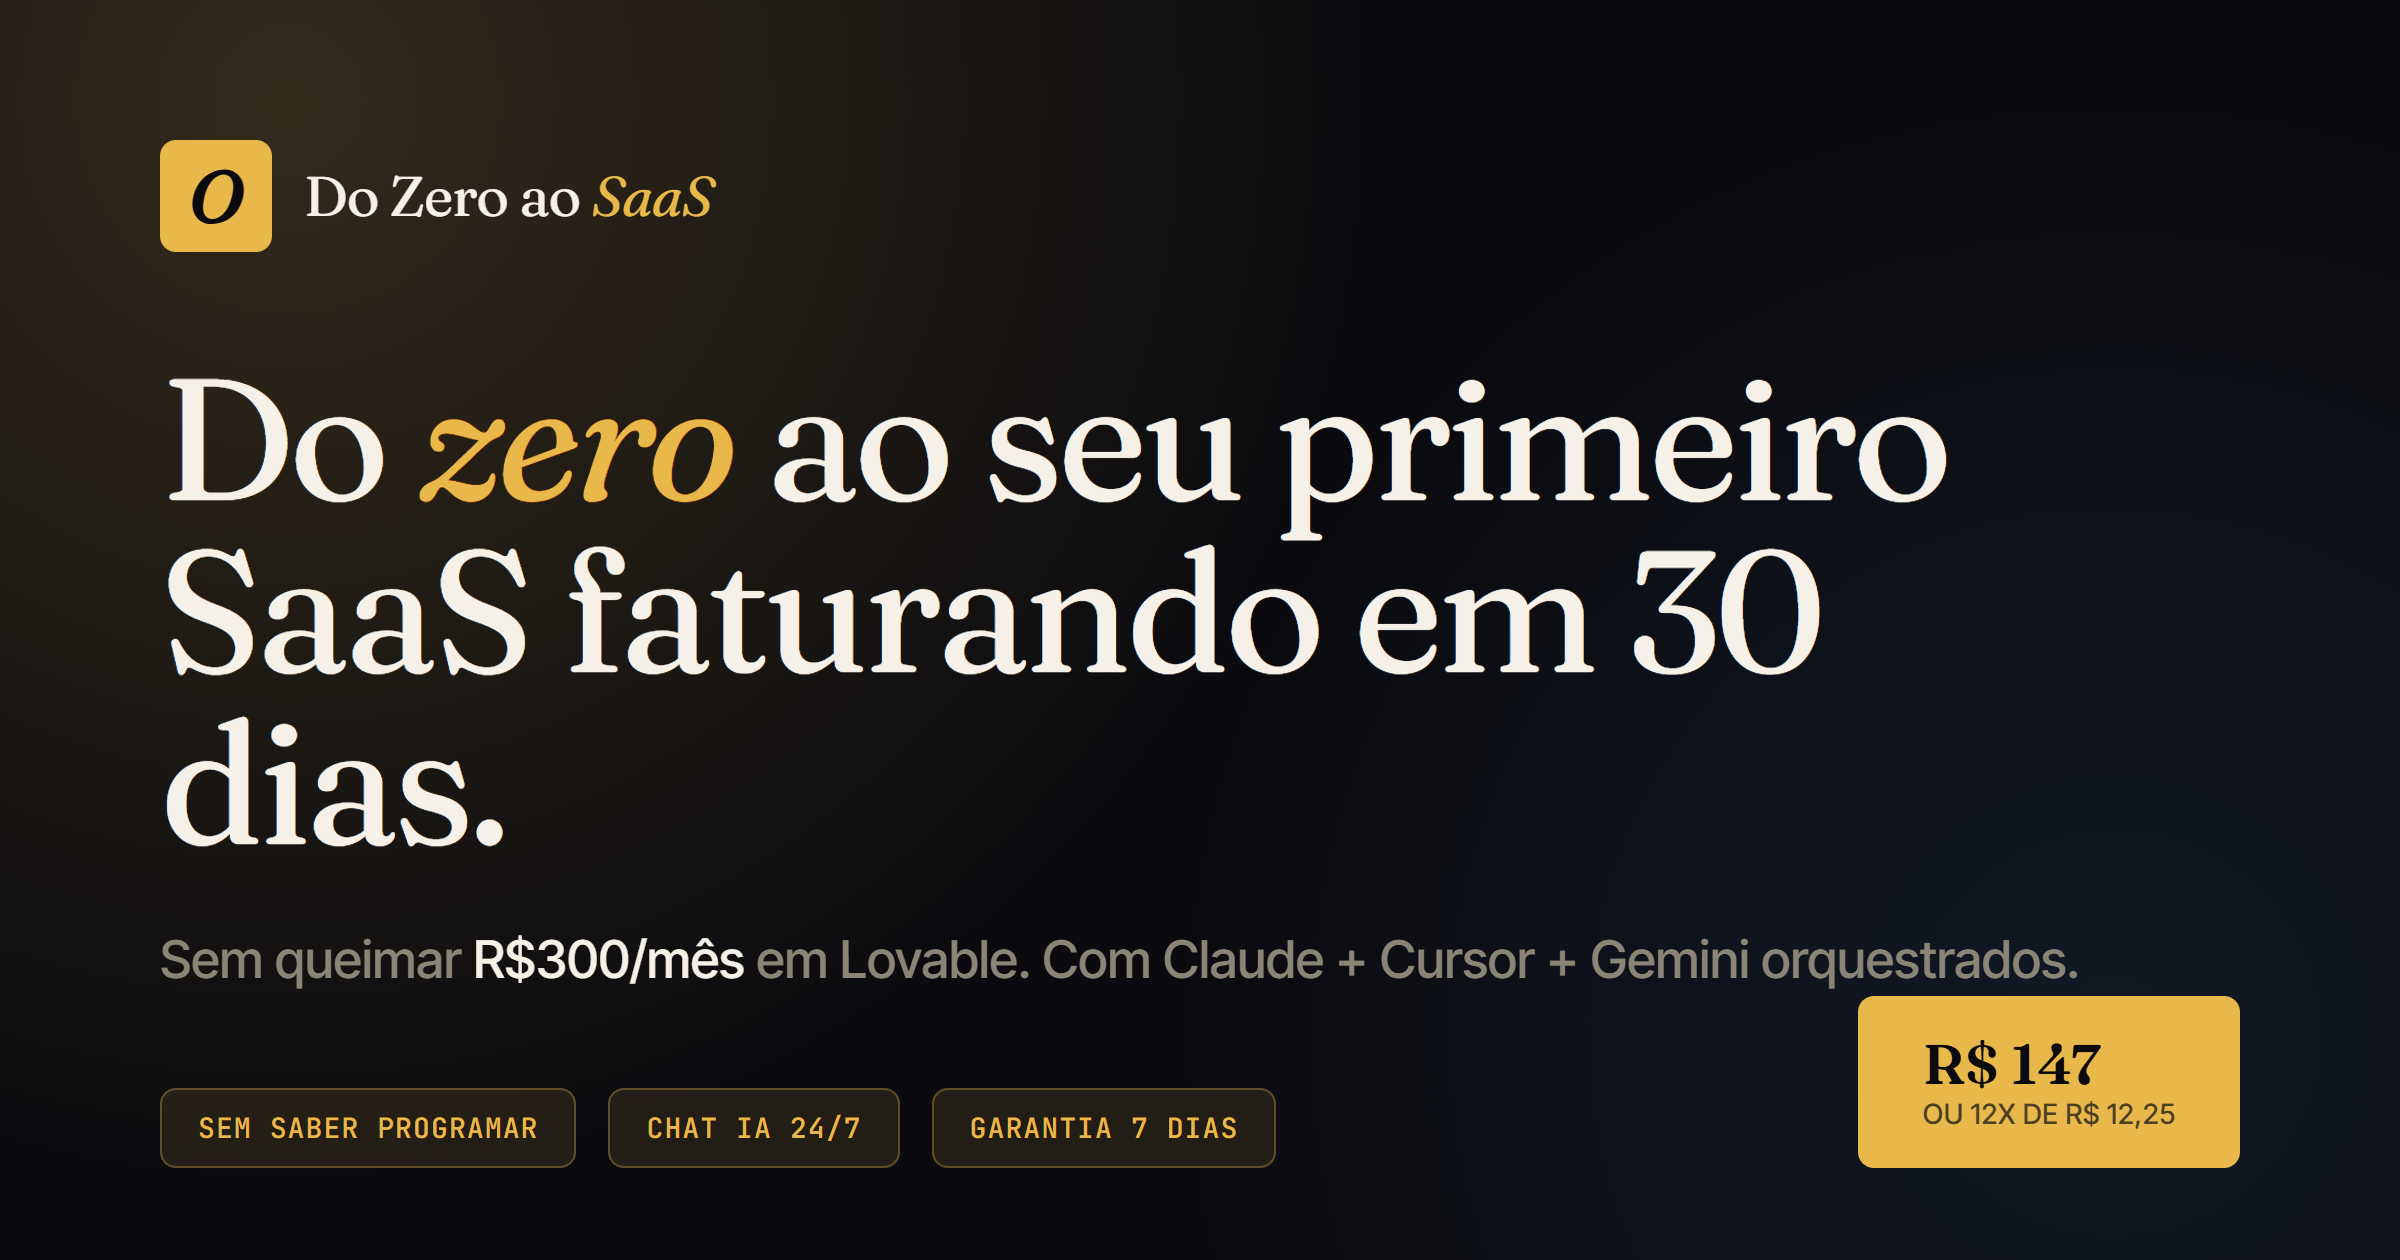
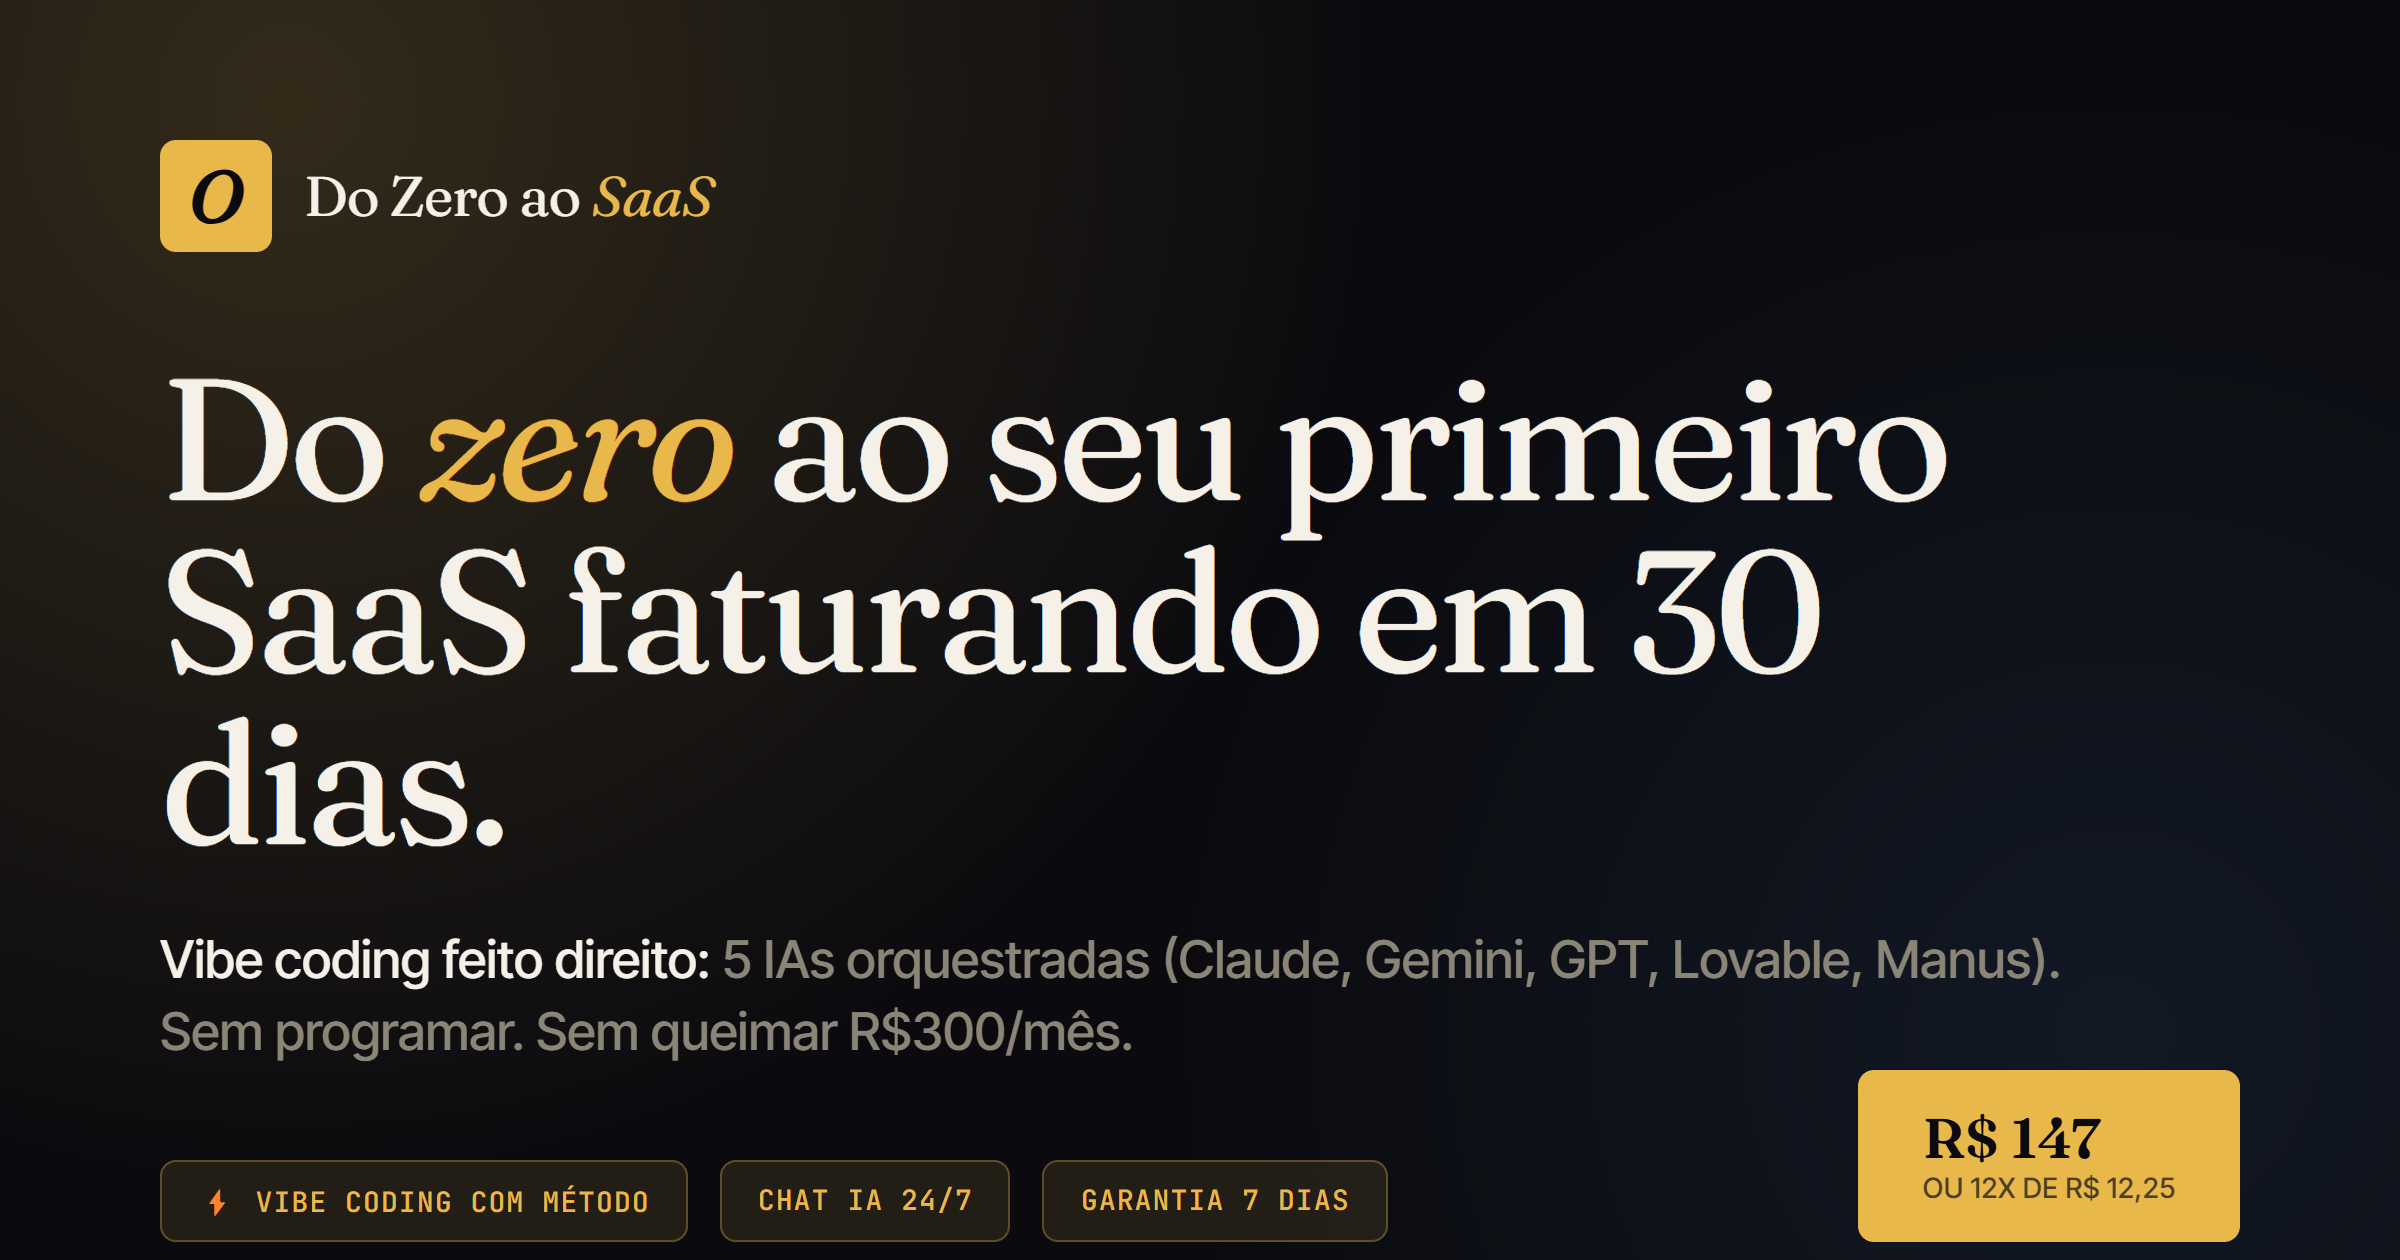
feat: reposicionamento Vibe Coding com Método (Opção B)
- Badge VIBE CODING COM MÉTODO no hero (gradiente dourado, animação pulse)
- H1: 'Vibe coding feito direito' como linha de destaque
- Hero-tag: '30 dias · 5 IAs orquestradas · Sem programar'
- Hero-sub: menciona as 5 IAs corretas (Claude, Gemini, GPT, Lovable, Manus)
- Seção 'O método' renomeada: 'Vibe coding feito direito: você não programa, você orquestra'
- FAQ: nova pergunta 'Isso é só mais um curso de vibe coding?' como primeira
- Title, description, og:title, og:description, twitter:title, JSON-LD: tudo com 'vibe coding com método'
- og-image.png regenerada com badge VIBE CODING + 5 IAs

Changed region(s): [[0.0625, 0.7429, 0.9375, 0.9905], [0.0625, 0.8667, 0.5625, 0.9905]]

diff --git a/index.html b/index.html
@@ -3,9 +3,9 @@
 <head>
 <meta charset="UTF-8">
 <meta name="viewport" content="width=device-width, initial-scale=1.0">
-<title>Do Zero ao SaaS — Do zero ao primeiro SaaS faturando em 30 dias</title>
-<meta name="description" content="Método prático para construir, publicar e vender seu primeiro SaaS em 30 dias orquestrando Claude + Cursor + Gemini. Sem saber programar. Sem queimar R$300/mês em Lovable.">
-<meta name="keywords" content="saas, sem programar, claude code, cursor ai, gemini, lovable alternativa, infoproduto, criar saas, indie hacker, micro saas, IA para negócios">
+<title>Vibe Coding com Método — Do Zero ao SaaS faturando em 30 dias</title>
+<meta name="description" content="Vibe coding feito direito: método sério com 5 IAs orquestradas (Claude, Gemini, GPT, Lovable, Manus), 100+ prompts e dashboard de 30 dias. Sem saber programar e sem queimar R$300/mês em Lovable.">
+<meta name="keywords" content="vibe coding, vibe coding método, saas sem programar, claude code, cursor ai, gemini, lovable alternativa, infoproduto, micro saas, indie hacker, IA para negócios">
 <meta name="author" content="Do Zero ao SaaS">
 <meta name="theme-color" content="#0B0B0F">
 <link rel="canonical" href="https://dozeroaosaas.com.br/">
@@ -14,20 +14,20 @@
 <meta property="og:type" content="website">
 <meta property="og:url" content="https://dozeroaosaas.com.br/">
 <meta property="og:site_name" content="Do Zero ao SaaS">
-<meta property="og:title" content="Do Zero ao SaaS — Sem queimar R$300/mês em Lovable">
-<meta property="og:description" content="Método prático pra construir, publicar e vender seu primeiro SaaS em 30 dias. Com Claude + Cursor + Gemini orquestrados (quase de graça). Sem saber programar.">
+<meta property="og:title" content="Vibe Coding com Método — Do Zero ao SaaS em 30 dias">
+<meta property="og:description" content="Vibe coding feito direito: 5 IAs orquestradas (Claude, Gemini, GPT, Lovable, Manus), 100+ prompts, dashboard de 30 dias. Sem programar. Sem queimar R$300/mês.">
 <meta property="og:image" content="https://dozeroaosaas.com.br/og-image.png">
 <meta property="og:image:width" content="1200">
 <meta property="og:image:height" content="630">
-<meta property="og:image:alt" content="Do Zero ao SaaS — método pra construir SaaS sem programar e sem gastar com Lovable">
+<meta property="og:image:alt" content="Vibe Coding com Método — método sério pra construir SaaS com 5 IAs orquestradas">
 <meta property="og:locale" content="pt_BR">
 
 <!-- Twitter / X -->
 <meta name="twitter:card" content="summary_large_image">
-<meta name="twitter:title" content="Do Zero ao SaaS — Sem queimar R$300/mês em Lovable">
-<meta name="twitter:description" content="Método pra construir SaaS em 30 dias com Claude + Cursor + Gemini. Sem programar. R$ 147 — acesso vitalício + chat IA 24/7.">
+<meta name="twitter:title" content="Vibe Coding com Método — SaaS em 30 dias">
+<meta name="twitter:description" content="Vibe coding feito direito: 5 IAs orquestradas, 100+ prompts, chat IA 24/7. R$ 147 — acesso vitalício.">
 <meta name="twitter:image" content="https://dozeroaosaas.com.br/og-image.png">
-<meta name="twitter:image:alt" content="Do Zero ao SaaS">
+<meta name="twitter:image:alt" content="Vibe Coding com Método">
 
 <!-- Robots -->
 <meta name="robots" content="index, follow, max-image-preview:large">
@@ -58,8 +58,8 @@ fbq('track', 'PageView');
 {
   "@context": "https://schema.org",
   "@type": "Product",
-  "name": "Do Zero ao SaaS",
-  "description": "Método prático para construir, publicar e vender seu primeiro SaaS em 30 dias orquestrando Claude + Cursor + Gemini. Sem saber programar.",
+  "name": "Do Zero ao SaaS — Vibe Coding com Método",
+  "description": "Método sério de vibe coding: construa seu primeiro SaaS em 30 dias orquestrando Claude, Gemini, GPT, Lovable e Manus. 100+ prompts, 8 templates, dashboard de 30 dias e auditoria de código. Sem saber programar.",
   "brand": { "@type": "Brand", "name": "Do Zero ao SaaS" },
   "image": "https://dozeroaosaas.com.br/og-image.png",
   "url": "https://dozeroaosaas.com.br/",
@@ -185,6 +185,36 @@ fbq('track', 'PageView');
     content: '';
     width: 32px; height: 1px;
     background: var(--accent);
+  }
+
+  .vibe-badge {
+    display: inline-block;
+    background: linear-gradient(135deg, var(--accent) 0%, #F2C560 100%);
+    color: var(--bg);
+    font-family: 'JetBrains Mono', monospace;
+    font-size: 11px;
+    font-weight: 700;
+    letter-spacing: 0.18em;
+    padding: 8px 14px;
+    border-radius: 4px;
+    margin-bottom: 20px;
+    box-shadow: 0 0 0 1px rgba(232, 184, 74, 0.3), 0 8px 24px rgba(232, 184, 74, 0.15);
+    animation: vibePulse 3s ease-in-out infinite;
+  }
+
+  @keyframes vibePulse {
+    0%, 100% { box-shadow: 0 0 0 1px rgba(232, 184, 74, 0.3), 0 8px 24px rgba(232, 184, 74, 0.15); }
+    50% { box-shadow: 0 0 0 1px rgba(232, 184, 74, 0.5), 0 8px 32px rgba(232, 184, 74, 0.35); }
+  }
+
+  .vibe-line {
+    display: inline-block;
+    background: linear-gradient(135deg, var(--accent) 0%, #F2C560 100%);
+    -webkit-background-clip: text;
+    background-clip: text;
+    color: transparent;
+    font-style: italic;
+    font-weight: 400;
   }
 
   h1 {
@@ -885,14 +915,15 @@ fbq('track', 'PageView');
 <!-- HERO -->
 <section class="hero">
   <div class="wrap">
-    <div class="hero-tag">Do Zero ao SaaS · 30 dias · Sem pagar Lovable</div>
+    <span class="vibe-badge">⚡ VIBE CODING COM MÉTODO</span>
+    <div class="hero-tag">30 dias · 5 IAs orquestradas · Sem programar</div>
     <h1 class="fade-in">
       Do <em>zero</em> ao seu primeiro<br>
       <em>SaaS faturando</em> em 30 dias.<br>
-      <s>Sem saber programar.</s>
+      <strong class="vibe-line">Vibe coding feito direito.</strong>
     </h1>
     <p class="hero-sub">
-      Pare de queimar <strong>R$300/mês em Lovable</strong> que trava e estoura crédito. Você não precisa da ferramenta cara — precisa do <strong>método</strong> que orquestra Claude + Cursor + Gemini (quase de graça) pra construir SaaS de verdade.
+      Sem queimar <strong>R$300/mês em Lovable</strong> que trava. Sem cair em curso raso de "manda no Lovable e reza". <strong>Método sério</strong> com <strong>Claude, Gemini, GPT, Lovable e Manus</strong> orquestrados — 100+ prompts, 8 templates, dashboard de 30 dias e auditoria de código.
     </p>
     <!-- CTA principal: COMPRA -->
     <div class="hero-ctas">
@@ -1022,7 +1053,7 @@ fbq('track', 'PageView');
 <section class="section" id="como-funciona">
   <div class="wrap">
     <div class="section-tag">O método</div>
-    <h2>Você não toca instrumento.<br><em>Você rege a orquestra.</em></h2>
+    <h2>Vibe coding feito direito:<br>você não programa, <em>você orquestra.</em></h2>
     <p class="section-lead">
       A ideia central do método: você não vira programador. Você vira <strong>maestro</strong>. Sabe qual ferramenta de IA chamar em cada momento, com qual prompt, com qual critério de validação. Os instrumentos são 5. O maestro é você.
     </p>
@@ -1263,6 +1294,12 @@ fbq('track', 'PageView');
     </p>
 
     <div class="faq-list">
+      <div class="faq-item">
+        <div class="faq-q">Isso é só mais um curso de vibe coding?</div>
+        <div class="faq-a">
+          Não. A maioria dos cursos de "vibe coding" hoje é "manda um prompt no Lovable e reza". Funciona pra protótipo de fim de semana, quebra na hora de ir pra produção real. Aqui é diferente: <strong>vibe coding com método</strong>. 5 IAs orquestradas com papel claro (Claude planeja, Gemini ensina, Lovable scaffolda, Cursor edita, Manus executa em batch), 100+ prompts testados, 8 templates pra PRD/schema/checklist, dashboard de 30 dias com checkpoints concretos, auditoria de código antes de cada deploy. É vibe coding feito direito — pra quem quer SaaS no ar de verdade, não só "demo bonita pro Twitter".
+        </div>
+      </div>
       <div class="faq-item">
         <div class="faq-q">Eu não sei programar nadinha. Vou conseguir mesmo?</div>
         <div class="faq-a">

diff --git a/og-render.html b/og-render.html
@@ -93,12 +93,12 @@
 
   <div>
     <h1>Do <em>zero</em> ao seu primeiro<br>SaaS faturando em 30 dias.</h1>
-    <p class="sub">Sem queimar <strong>R$300/mês</strong> em Lovable. Com Claude + Cursor + Gemini orquestrados.</p>
+    <p class="sub"><strong>Vibe coding feito direito:</strong> 5 IAs orquestradas (Claude, Gemini, GPT, Lovable, Manus). Sem programar. Sem queimar R$300/mês.</p>
   </div>
 
   <div class="bottom">
     <div class="badges">
-      <span class="badge">SEM SABER PROGRAMAR</span>
+      <span class="badge">⚡ VIBE CODING COM MÉTODO</span>
       <span class="badge">CHAT IA 24/7</span>
       <span class="badge">GARANTIA 7 DIAS</span>
     </div>
